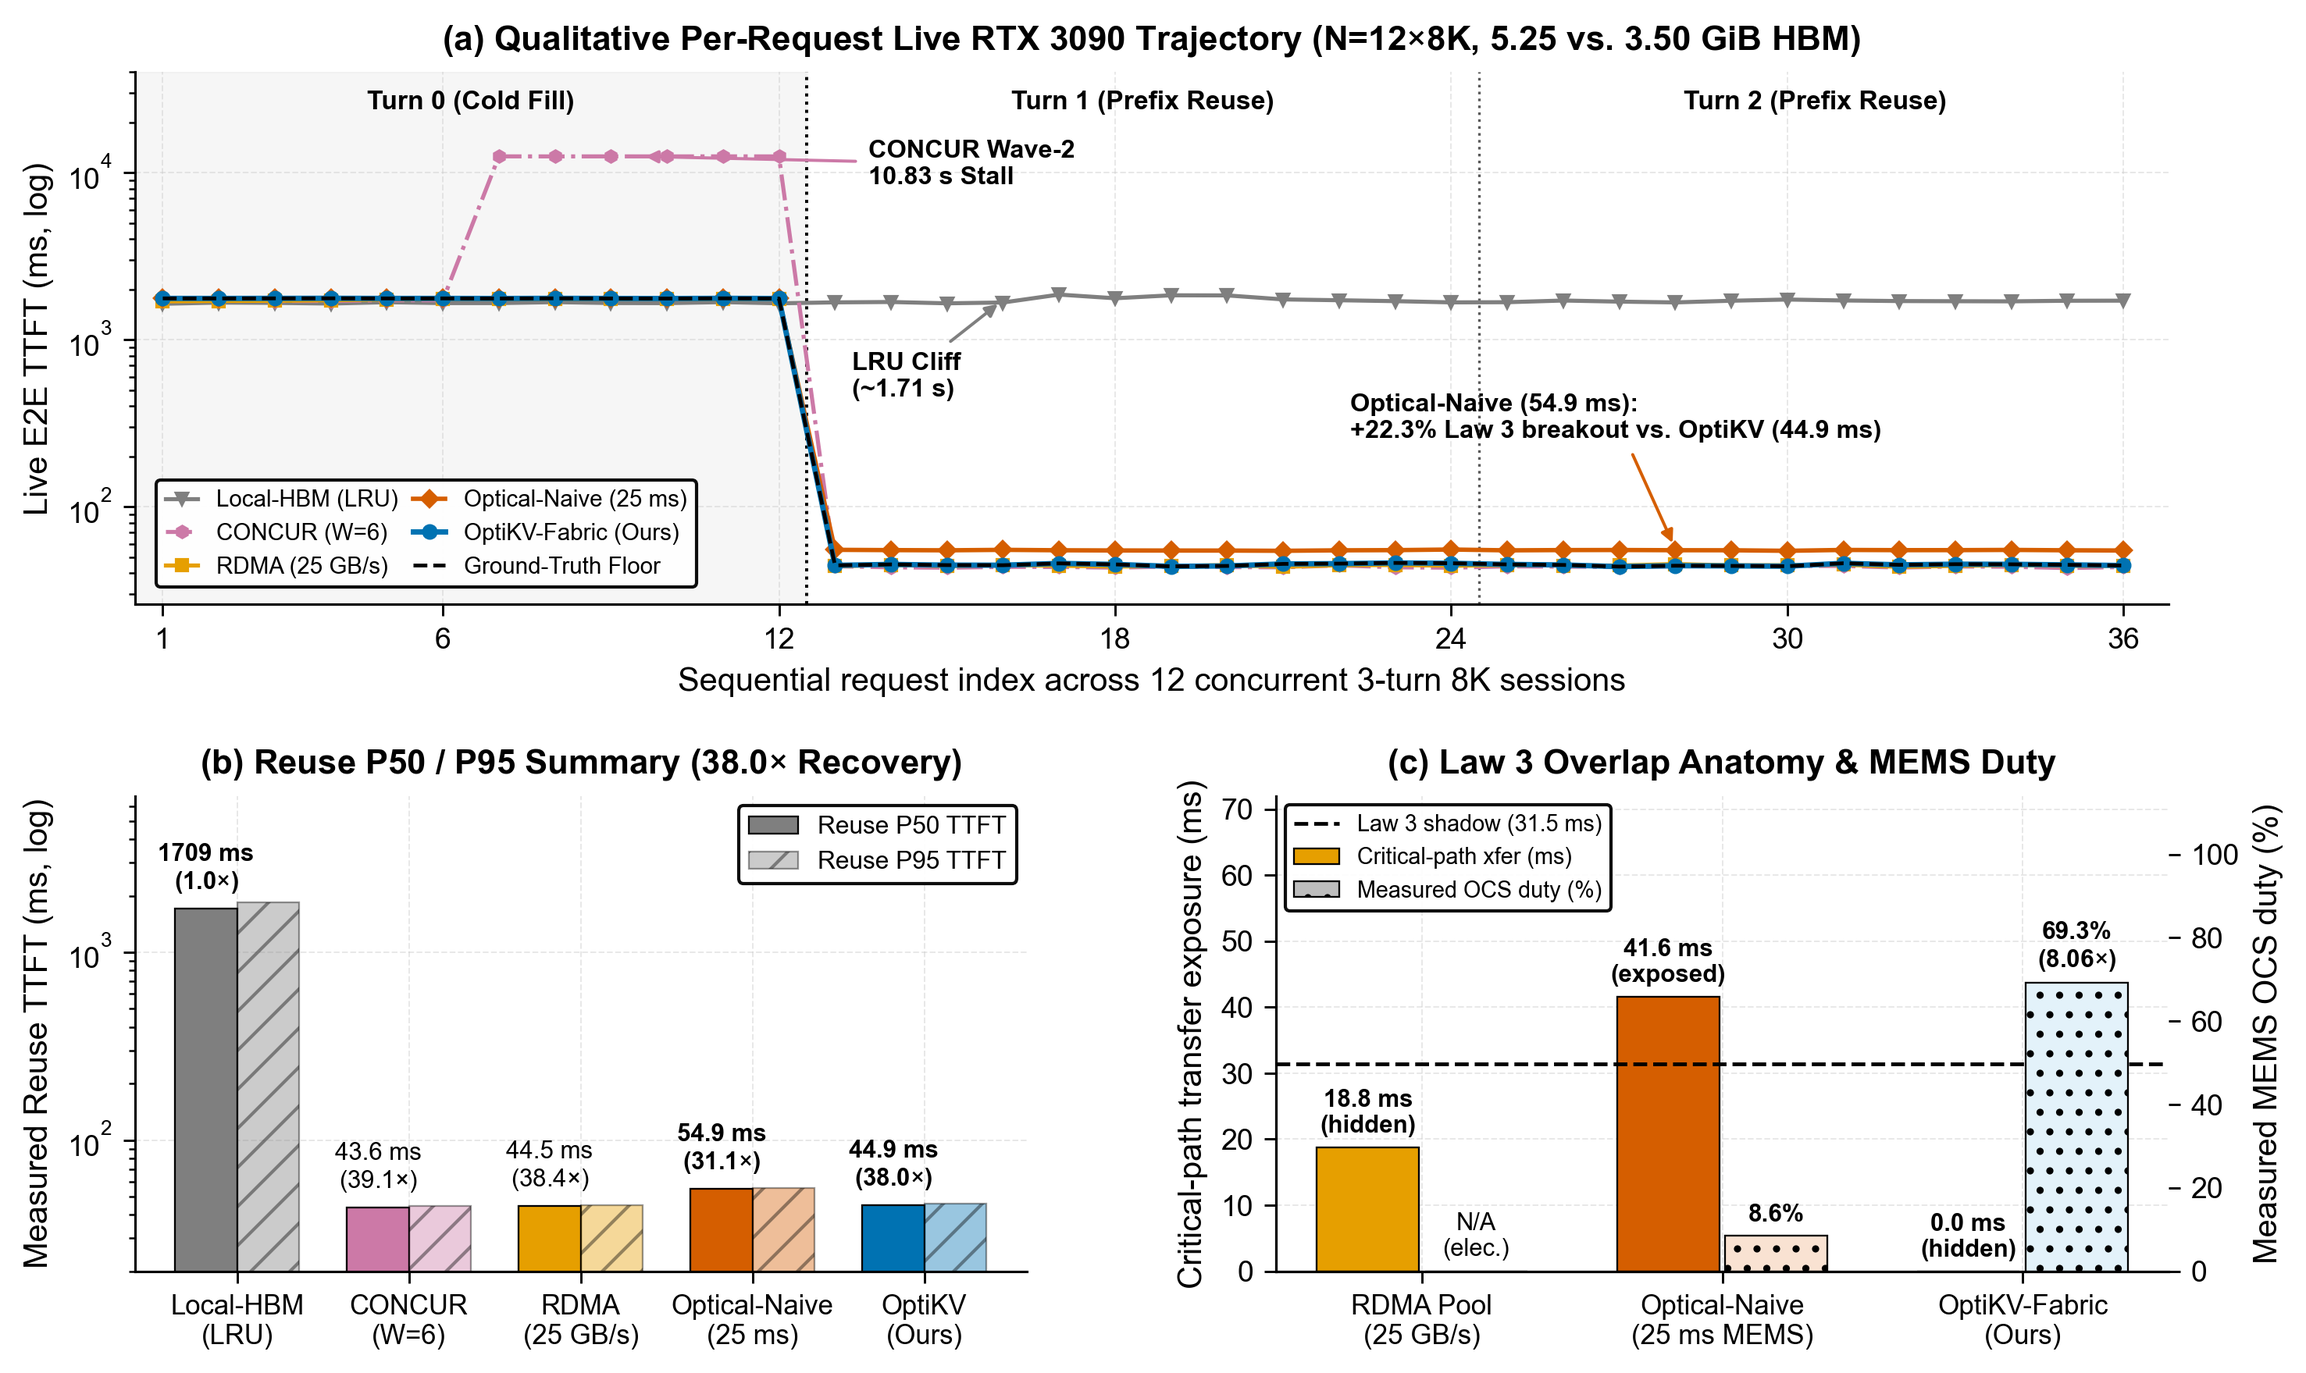
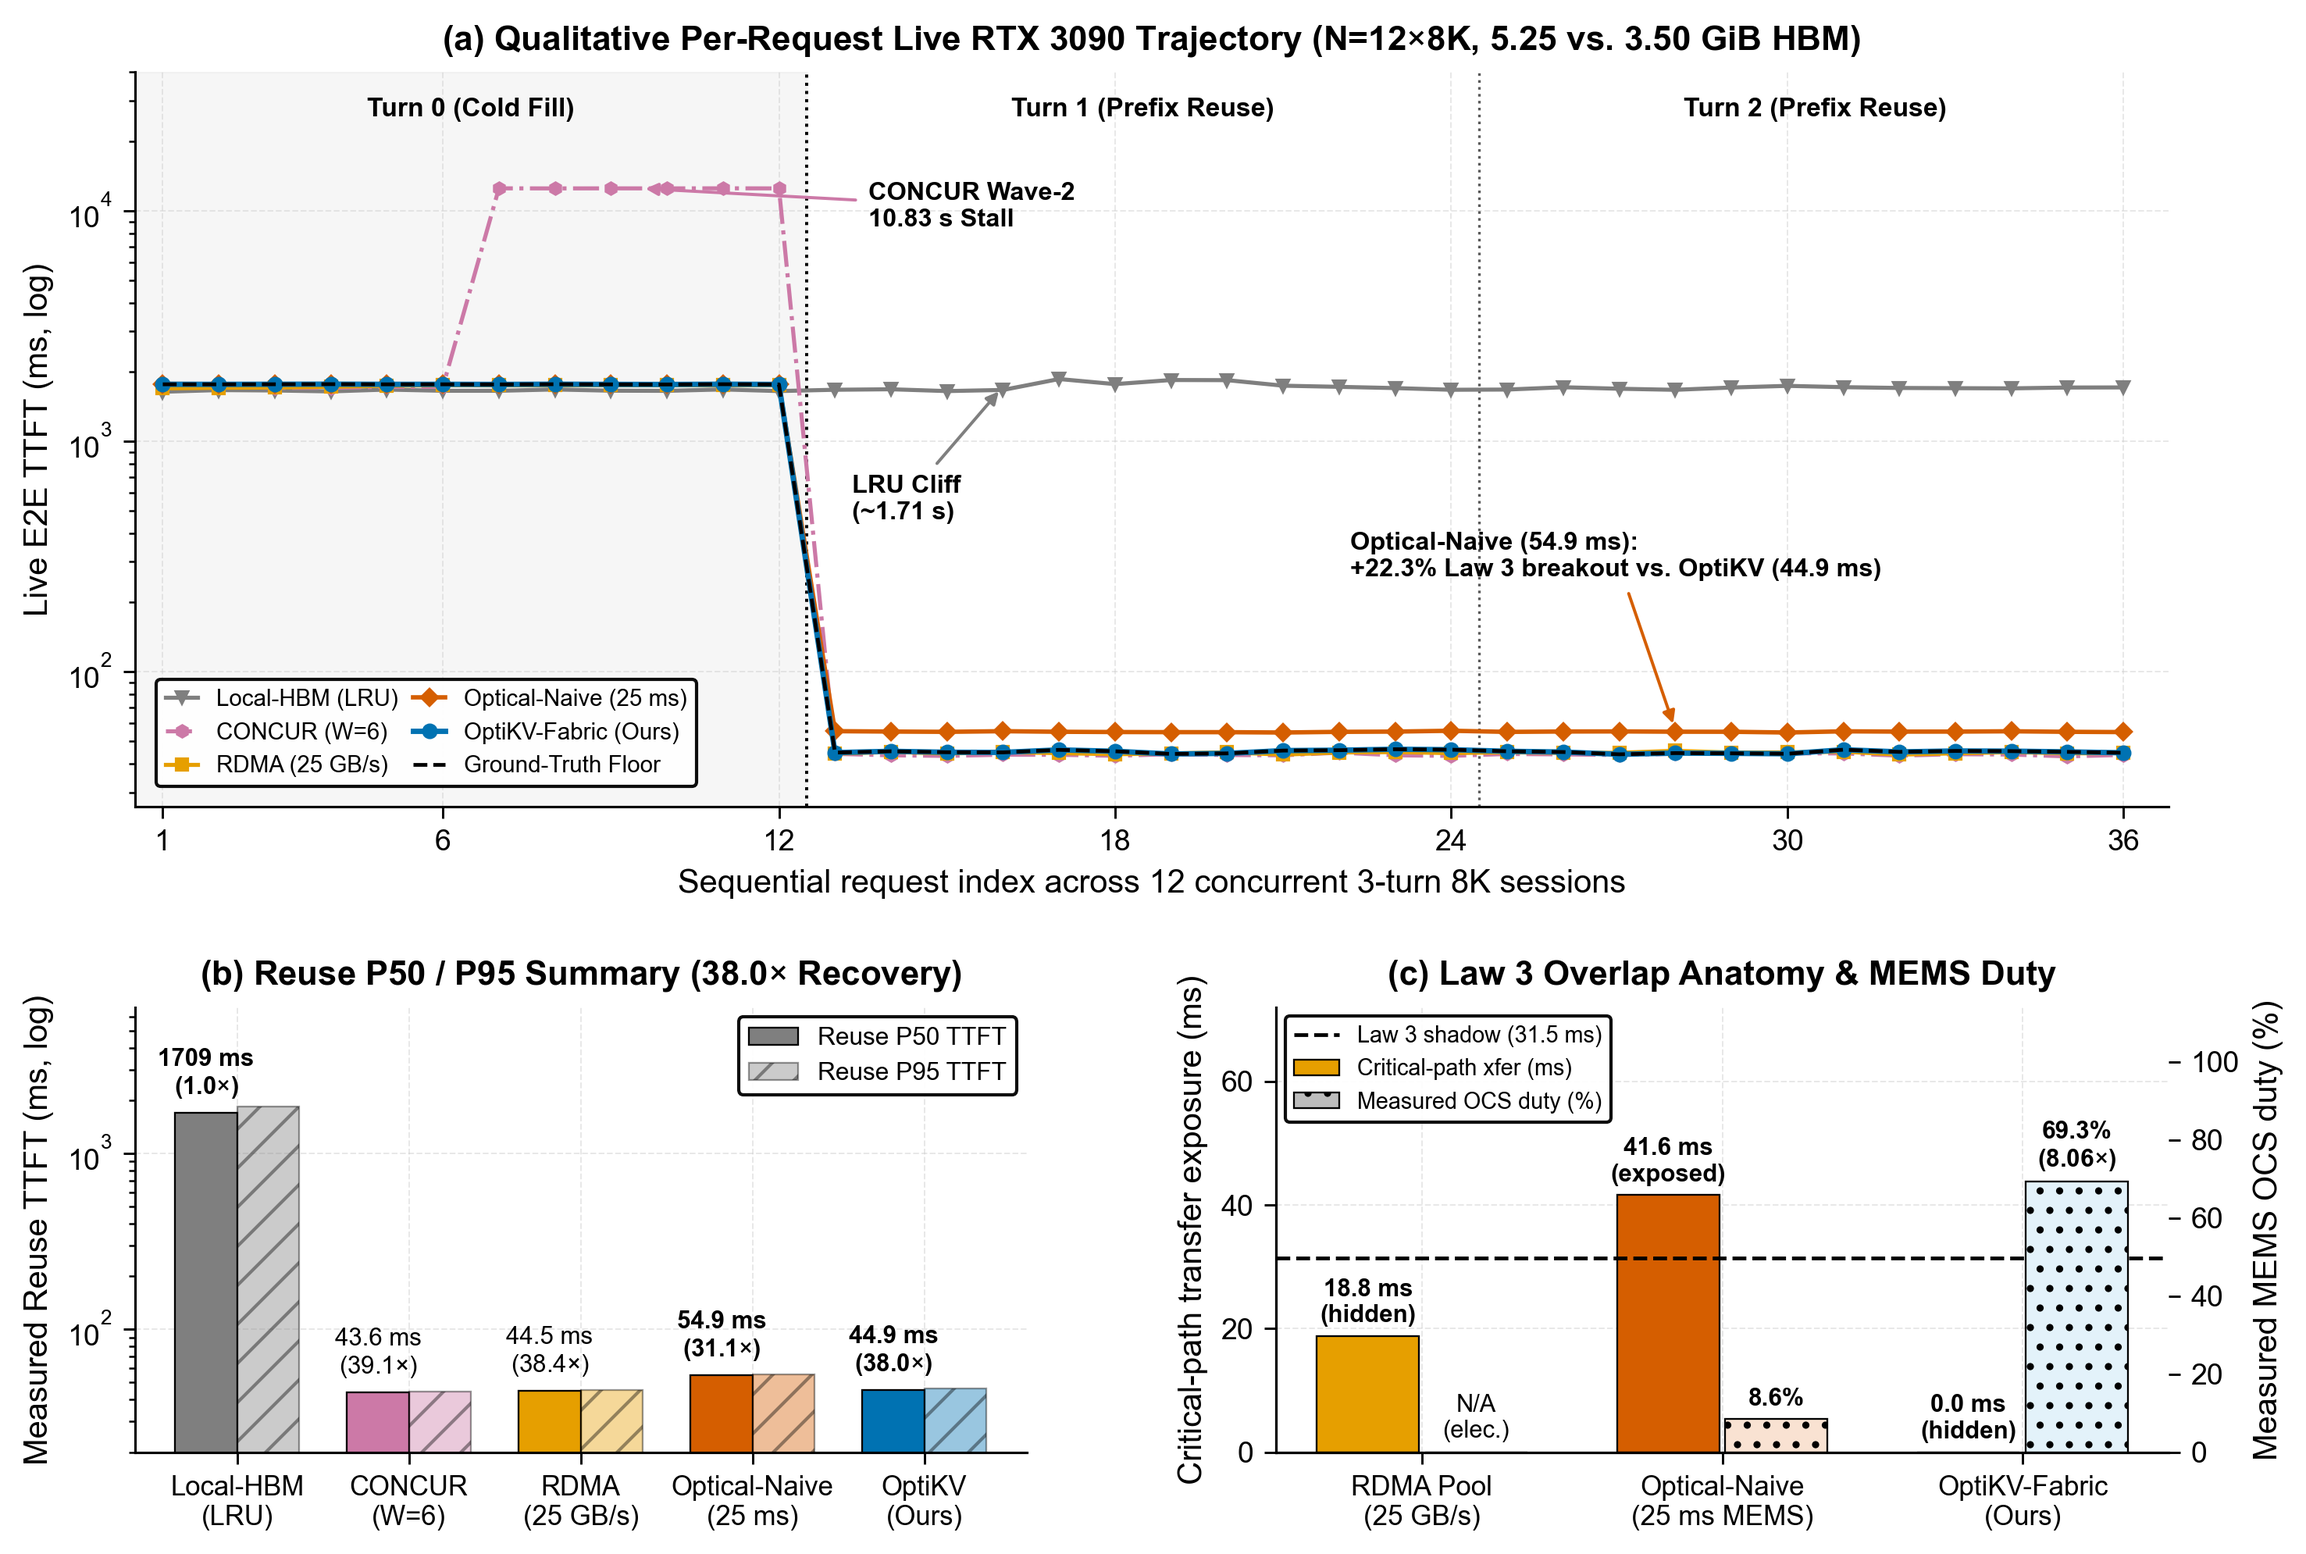
v2.4.3: Stretch Fig. 10(a) physical vertical height (+39%) for clearer trajectory separation

diff --git a/scripts/make_publication_figures.py b/scripts/make_publication_figures.py
@@ -1260,8 +1260,8 @@ def make_fig10_live_3090_hil_replay() -> None:
     working_gib = n_sess * 8192 * 57344 / (1024**3)
     pool_gib = float(df_e2e["kv_pool_gib"].iloc[0]) if "kv_pool_gib" in df_e2e.columns else 3.50
 
-    fig = plt.figure(figsize=(11.2, 6.65))
-    gs = fig.add_gridspec(2, 2, height_ratios=[1.12, 1.0], hspace=0.38, wspace=0.28)
+    fig = plt.figure(figsize=(11.2, 7.65))
+    gs = fig.add_gridspec(2, 2, height_ratios=[1.65, 1.0], hspace=0.34, wspace=0.28)
 
     # --- Panel (a): Qualitative Per-Request Live RTX 3090 Silicon Trajectory ---
     ax_t = fig.add_subplot(gs[0, :])
